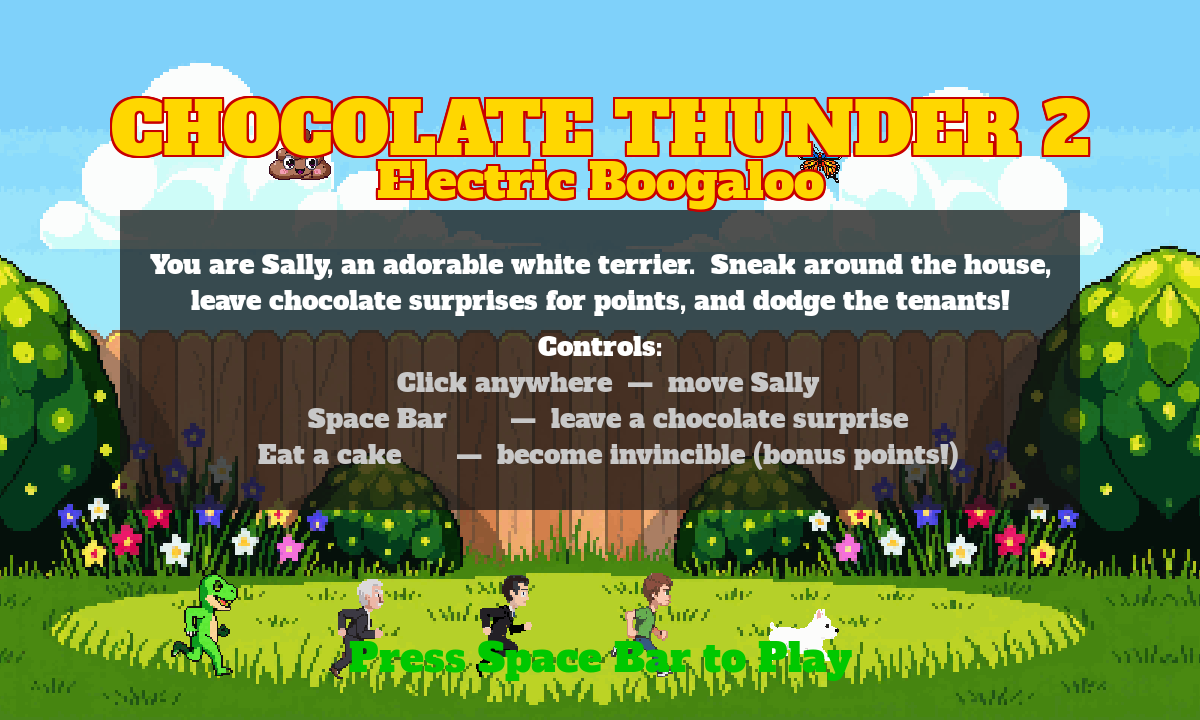
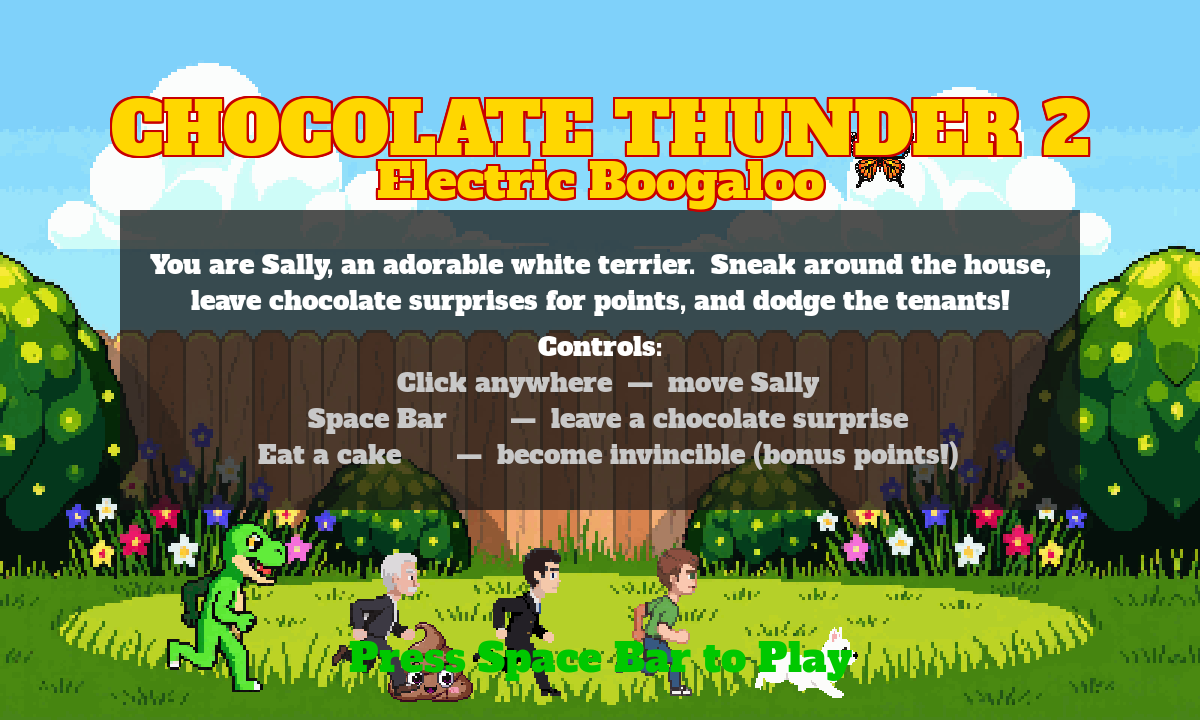
feat(art): finalize start screen — proportional runners + world-scrolling surprise
- Scale runners by visible height (crop transparent padding, union bbox keeps feet
  planted): small terrier, adult tenants, looming T-rex.
- Googly "surprise" sits on the grass and scrolls left with the background at scroll
  speed, respawning from the right — reads as a real object in the world.

Closes art_startscreen (ChocoThunder2-ash), completing the Artwork Upgrade epic
(ChocoThunder2-41u). 129 tests pass.

diff --git a/game/screens/start.py b/game/screens/start.py
@@ -35,15 +35,16 @@ _CONTROLS = (
 )
 _PROMPT = "Press Space Bar to Play"
 
-# Chase cast, drawn back-to-front; (folder, drawn height px, x, run fps). Sally is front-right.
+# Chase cast, drawn back-to-front; (folder, visible height px, x, run fps). Heights are
+# roughly proportional: a small terrier, adult tenants, a looming cartoon T-rex.
 _RUNNERS = (
-    ("trex",  150, 210, 9),
-    ("char3", 145, 360, 11),
-    ("char2", 145, 505, 10),
-    ("char1", 145, 650, 11),
-    ("sally", 120, 800, 13),
+    ("trex",  180, 215, 9),
+    ("char3", 150, 380, 11),
+    ("char2", 150, 520, 10),
+    ("char1", 150, 660, 11),
+    ("sally",  74, 800, 13),
 )
-_FEET_Y = config.SCREEN_HEIGHT - 24
+_FEET_Y = config.SCREEN_HEIGHT - 22
 
 
 class _Runner:
@@ -109,30 +110,41 @@ class StartScreen:
         self._bf_x = 0.0
         self._bf_y = 0.0
         self._bf_phase = 0.0
-        # Surprise: pops up in the sky/background for a beat, then hides.
-        self._sp_timer = 3.5
-        self._sp_show = 0.0
-        self._sp_pos = (0, 0)
+        # Surprise: a googly poop sitting on the grass that scrolls past with the
+        # background (so it reads as a real object in the world), then respawns.
+        self._sp_active = False
+        self._sp_timer = 3.0
+        self._sp_x = 0.0
 
     @staticmethod
-    def _load_runner(folder, height: int) -> list[pygame.Surface] | None:
+    def _crop_scale(surf: pygame.Surface, bbox: pygame.Rect, height: int) -> pygame.Surface:
+        cropped = surf.subsurface(bbox).copy()
+        w = max(1, round(bbox.width * height / bbox.height))
+        return pygame.transform.scale(cropped, (w, height))
+
+    @classmethod
+    def _load_runner(cls, folder, height: int) -> list[pygame.Surface] | None:
         try:
             frames = assets.load_frames(folder)
         except FileNotFoundError:
             return None
-        out = []
+        # Scale by *visible* height (transparent padding cropped); a shared union bbox keeps
+        # the feet planted across the run cycle so the character doesn't bob vertically.
+        bbox = None
         for f in frames:
-            w, h = f.get_size()
-            out.append(pygame.transform.scale(f, (max(1, round(w * height / h)), height)))
-        return out
+            r = f.get_bounding_rect()
+            bbox = r if bbox is None else bbox.union(r)
+        if bbox is None or bbox.height == 0:
+            bbox = frames[0].get_rect()
+        return [cls._crop_scale(f, bbox, height) for f in frames]
 
-    @staticmethod
-    def _load_sprite(path, height: int) -> pygame.Surface | None:
+    @classmethod
+    def _load_sprite(cls, path, height: int) -> pygame.Surface | None:
         if not path.exists():
             return None
         img = assets.load_image(str(path))
-        w, h = img.get_size()
-        return pygame.transform.scale(img, (max(1, round(w * height / h)), height))
+        bbox = img.get_bounding_rect() or img.get_rect()
+        return cls._crop_scale(img, bbox, height)
 
     def _setup_fonts(self) -> None:
         self._font_title  = fonts.load(72)
@@ -189,15 +201,16 @@ class StartScreen:
     def _update_surprise(self, dt: float) -> None:
         if self._surprise is None:
             return
-        if self._sp_show > 0:
-            self._sp_show -= dt
+        if self._sp_active:
+            self._sp_x -= _SCROLL_SPEED * dt  # scroll with the background
+            if self._sp_x < -60:
+                self._sp_active = False
+                self._sp_timer = random.uniform(3.5, 7.0)
         else:
             self._sp_timer -= dt
             if self._sp_timer <= 0:
-                self._sp_show = random.uniform(1.6, 2.4)
-                self._sp_timer = random.uniform(4.0, 7.0)
-                self._sp_pos = (random.randint(120, config.SCREEN_WIDTH - 120),
-                                random.randint(95, 210))
+                self._sp_active = True
+                self._sp_x = config.SCREEN_WIDTH + 40
 
     def draw(self) -> None:
         x = int(self._bg_x)
@@ -225,8 +238,11 @@ class StartScreen:
         self._blit_centered(self._font_prompt, _PROMPT, config.GREEN, y=630)
 
     def _draw_scene(self) -> None:
-        if self._surprise is not None and self._sp_show > 0:
-            self.screen.blit(self._surprise, self._surprise.get_rect(center=self._sp_pos))
+        if self._surprise is not None and self._sp_active:
+            self.screen.blit(
+                self._surprise,
+                self._surprise.get_rect(midbottom=(int(self._sp_x), _FEET_Y + 4)),
+            )
         for runner in self._runners:
             runner.draw(self.screen)
         if self._butterfly is not None and self._bf_active:

diff --git a/.claude/changelog.md b/.claude/changelog.md
@@ -16,10 +16,17 @@ All notable changes to ChocolateThunder2: ElectricBoogaloo are documented here.
   side-view characters + `running-4-frames` east). Provenance in
   `pixellab/_src/startscreen/manifest.json`.
 
+- Runners are scaled by their *visible* height (transparent padding cropped, shared union
+  bbox for planted feet) at sensible proportions — a small terrier, adult tenants, a looming
+  T-rex. The grass surprise scrolls left with the background so it reads as a world object.
+
 ### Verified
-- 129 tests pass; rendered in-engine (`testscreenshots/pixellab_startscreen.png`).
-- **Status: implemented + rendered, pending the user's visual sign-off** (`ChocoThunder2-ash`
-  stays in_progress until approved).
+- 129 tests pass; rendered + approved in-engine (`testscreenshots/pixellab_startscreen.png`).
+
+### Beads
+- `art_startscreen` (`ChocoThunder2-ash`) **closed** — this **completes the Artwork Upgrade
+  epic `ChocoThunder2-41u`** (backgrounds, characters, obstacles, transitions, win/lose,
+  leaderboard, powered Sally, start screen all shipped).
 
 ---
 
